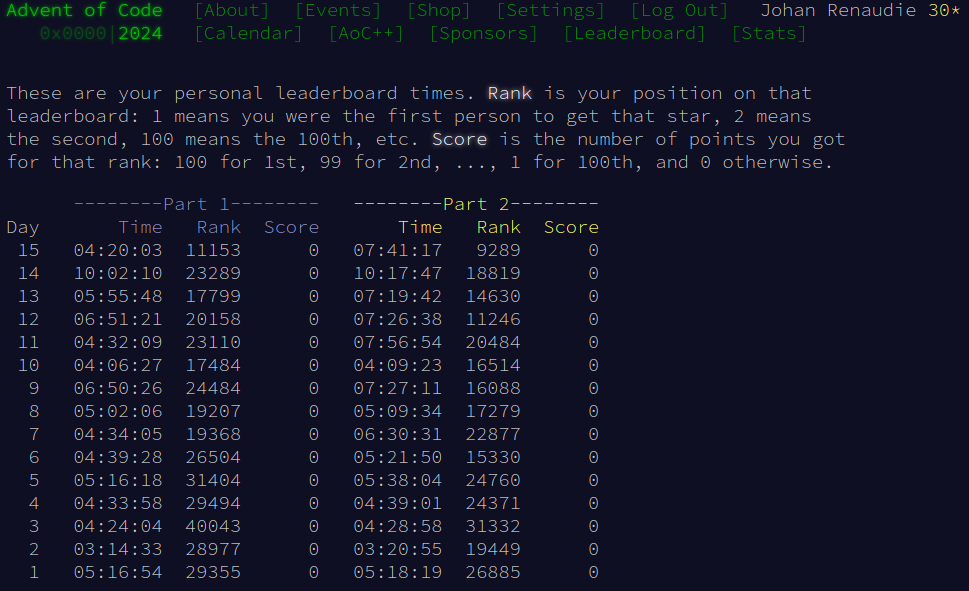
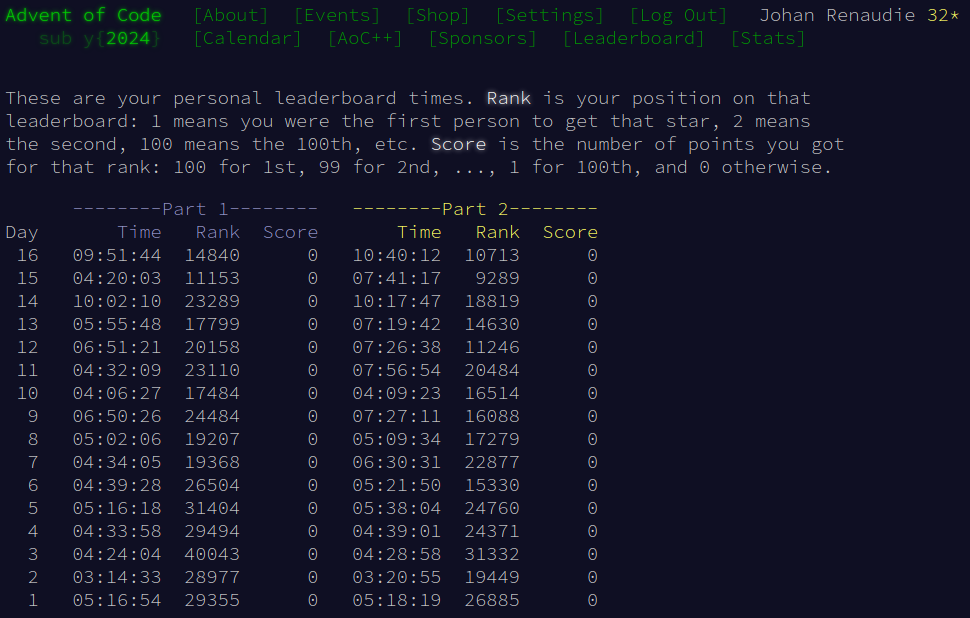
day16

diff --git a/2024/README.md b/2024/README.md
@@ -9,3 +9,7 @@ https://adventofcode.com/2024
 ### Day 06
 
 ![](visualizations/day06.png)
+
+### Day 16
+
+![](visualizations/day16_part1.png)![](visualizations/day16_part2.png)
